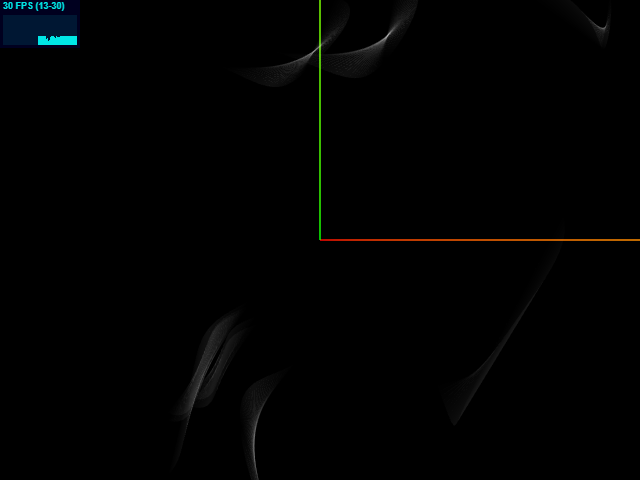
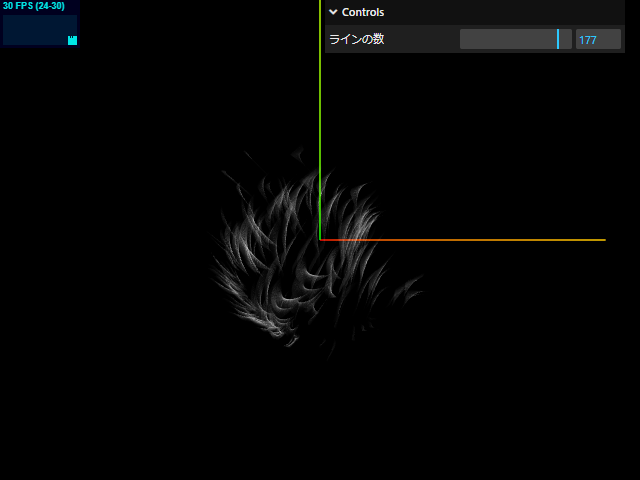
minor fix

diff --git a/static/site/js/gpgpu-planegeometry.js b/static/site/js/gpgpu-planegeometry.js
@@ -1,8 +1,9 @@
 import * as THREE from "three";
 import { OrbitControls } from "three/controls/OrbitControls.js";
 
-// stats.js
 import Stats from "three/libs/stats.module.js";
+
+import { GUI } from "three/libs/lil-gui.module.min.js";
 
 // 必要な追加モジュール（libs以下に配置するファイル）
 //   three.js/examples/jsm/misc/GPUComputationRenderer.js
@@ -49,6 +50,7 @@ export class Main {
   statsjs;
 
   renderParams = {
+    animationId: null,
     clock: new THREE.Clock(),
     delta: 0,
     time: 0,
@@ -63,7 +65,8 @@ export class Main {
     // 描画する線の数、この数でinitComputationRenderer()で計算するテクスチャの高さを決める
     numLines: 10,
 
-    // プレーンジオメトリのwidthSegments, heightSegmentsは1で固定
+    // プレーンジオメトリのwidthSegments
+    // heightSegmentsは1で固定
     widthSegments: 31,
   }
 
@@ -98,6 +101,25 @@ export class Main {
     // stats.jsを初期化
     this.initStatsjs();
 
+    // lil-guiを初期化
+    this.initGui();
+
+    // コンテンツを初期化
+    this.initContents();
+  }
+
+
+  initContents = () => {
+    // アニメーションを停止
+    this.stop();
+
+    // シーン上のメッシュを削除する
+    // this.scene.clear();
+    this.clearScene();
+
+    // 削除した状態を描画
+    this.renderer.render(this.scene, this.camera);
+
     // 風のテクスチャを初期化
     this.initWindTexture();
 
@@ -109,7 +131,6 @@ export class Main {
 
     // フレーム毎の処理を開始
     this.render();
-
   }
 
 
@@ -180,9 +201,49 @@ export class Main {
   }
 
 
+  initGui = () => {
+    const guiContainer = document.getElementById("guiContainer");
+    const gui = new GUI({
+      container: guiContainer,
+      width: 300,
+    });
+
+    // 一度だけ実行するための関数
+    const doLater = (job, tmo) => {
+
+      // 処理が登録されているならタイマーをキャンセル
+      var tid = doLater.TID[job];
+      if (tid) {
+        window.clearTimeout(tid);
+      }
+
+      // タイムアウト登録する
+      doLater.TID[job] = window.setTimeout(() => {
+        // 実行前にタイマーIDをクリア
+        doLater.TID[job] = null;
+        // 登録処理を実行
+        job.call();
+      }, tmo);
+    }
+
+    // 処理からタイマーIDへのハッシュ
+    doLater.TID = {};
+
+    gui
+      .add(this.params, "numLines")
+      .name(navigator.language.startsWith("ja") ? "ラインの数" : "number of lines")
+      .min(1)
+      .max(200)
+      .step(1)
+      .onChange((value) => {
+        doLater(this.initContents, 100);
+      });
+  }
+
+
   render = () => {
     // 再帰処理
-    requestAnimationFrame(this.render);
+    this.renderParams.animationId = requestAnimationFrame(this.render);
 
     const delta = this.renderParams.clock.getDelta();
     this.renderParams.time += delta;
@@ -206,6 +267,39 @@ export class Main {
     }
 
     this.renderParams.delta %= this.renderParams.interval;
+  }
+
+
+  stop = () => {
+    if (this.renderParams.animationId) {
+      cancelAnimationFrame(this.renderParams.animationId);
+    }
+    this.renderParams.animationId = null;
+  }
+
+
+  clearScene = () => {
+    this.scene.children.forEach((child) => {
+      if (child.type === 'AxesHelper') {
+        return;
+      }
+      if (child.type === 'Light') {
+        return;
+      }
+
+      this.scene.remove(child);
+      if (child.geometry) {
+        child.geometry.dispose();
+      }
+      if (child.material) {
+        // マテリアルが配列の場合もあるので、配列の場合はすべて破棄
+        if (Array.isArray(child.material)) {
+          child.material.forEach(material => material.dispose());
+        } else {
+          child.material.dispose();
+        }
+      }
+    });
   }
 
 
@@ -306,10 +400,10 @@ export class Main {
       for (let j = 0; j < numVertices; j++) {
         // 同じラインの頂点は全て同じ座標にして、初期状態では尻尾が存在しないようにする
         const index = (i * numVertices + j) * 4;
-        initialPositionTexture.image.data[index + 0] = x;      // X座標
-        initialPositionTexture.image.data[index + 1] = y;      // Y座標
-        initialPositionTexture.image.data[index + 2] = z;      // Z座標
-        initialPositionTexture.image.data[index + 3] = j % 2;  // W座標は頂点が奇数か偶数かを表す
+        initialPositionTexture.image.data[index + 0] = x;  // X座標
+        initialPositionTexture.image.data[index + 1] = y;  // Y座標
+        initialPositionTexture.image.data[index + 2] = z;  // Z座標
+        initialPositionTexture.image.data[index + 3] = j;  // W座標は頂点の番号
       }
     }
 
@@ -344,7 +438,7 @@ export class Main {
           // texturePositionはuniformで渡していないが、この後addVariable()で変数を追加すると自動的に使えるようになる
           vec4 textureValue = texture2D( texturePosition, uv );
 
-          // 位置情報はxyzに、頂点が奇数か偶数かを表す情報はwに入っている
+          // 位置情報はxyzに、頂点番号を表す情報がwに入っている
           vec3 pos = texture2D( texturePosition, uv ).xyz;
           float w = textureValue.w;
 
@@ -472,6 +566,13 @@ export class Main {
       // i番目のラインに関して、
 
       // PlaneGeometryを作成
+      // widthSegmentsは間隔の数なので、PlaneGeometryの頂点の数は (widthSegments + 1) * 2 になる
+      // 頂点は以下のように並ぶ
+      // 0～WidthSegments は上側、(widthSegments + 1)よりも大きい値は下側に配置される
+      //  0 --- 1 --- 2
+      //  |     |     |
+      //  3 --- 4 --- 5
+
       const geometry = new THREE.PlaneGeometry(1, 1, this.params.widthSegments, 1);
 
       // ジオメトリの頂点数を取得、これは (this.params.widthSegments + 1) * 2 になる
@@ -517,13 +618,13 @@ export class Main {
           // 位置をテクスチャから取得
           vec4 textureValue = texture2D(u_texture_position, gpgpuUv);
 
-          // 位置はxyzに、頂点が奇数か偶数かを表す情報はwに入っている
+          // 位置はxyzに、頂点の番号がwに入っている
           vec3 pos = textureValue.xyz;
           float w = textureValue.w;
 
-          // 奇数の頂点は座標を+する
-          if (w > 0.5) {
-            pos += vec3(.5);
+          // 下半分の頂点のY座標を+1する
+          if (w > ${this.params.widthSegments}.0) {
+            pos.y += 1.0;
           }
 
           // 位置をposに更新

diff --git a/static/site/js/gpgpu-particles3.js b/static/site/js/gpgpu-particles3.js
@@ -97,11 +97,11 @@ export class Main {
     this.initGui();
 
     // コンテンツを初期化
-    this.init();
+    this.initContents();
   }
 
 
-  init = () => {
+  initContents = () => {
     // アニメーションを停止
     this.stop();
 
@@ -116,35 +116,10 @@ export class Main {
     this.initComputationRenderer();
 
     // パーティクルを初期化
-    this.initParticles();
+    this.initContents();
 
     // フレーム処理
     this.render();
-  }
-
-
-  clearScene = () => {
-    this.scene.children.forEach((child) => {
-      if (child.type === 'AxesHelper') {
-        return;
-      }
-      if (child.type === 'Light') {
-        return;
-      }
-
-      this.scene.remove(child);
-      if (child.geometry) {
-        child.geometry.dispose();
-      }
-      if (child.material) {
-        // マテリアルが配列の場合もあるので、配列の場合はすべて破棄
-        if (Array.isArray(child.material)) {
-          child.material.forEach(material => material.dispose());
-        } else {
-          child.material.dispose();
-        }
-      }
-    });
   }
 
 
@@ -243,7 +218,7 @@ export class Main {
       .max(200)
       .step(1)
       .onChange((value) => {
-        doLater(this.init, 100);
+        doLater(this.initContents, 100);
       });
   }
 
@@ -282,6 +257,31 @@ export class Main {
       cancelAnimationFrame(this.renderParams.animationId);
     }
     this.renderParams.animationId = null;
+  }
+
+
+  clearScene = () => {
+    this.scene.children.forEach((child) => {
+      if (child.type === 'AxesHelper') {
+        return;
+      }
+      if (child.type === 'Light') {
+        return;
+      }
+
+      this.scene.remove(child);
+      if (child.geometry) {
+        child.geometry.dispose();
+      }
+      if (child.material) {
+        // マテリアルが配列の場合もあるので、配列の場合はすべて破棄
+        if (Array.isArray(child.material)) {
+          child.material.forEach(material => material.dispose());
+        } else {
+          child.material.dispose();
+        }
+      }
+    });
   }
 
 
@@ -517,7 +517,7 @@ export class Main {
   }
 
 
-  initParticles = () => {
+  initContents = () => {
 
     //
     // パーティクルを表すメッシュの作成と表示
